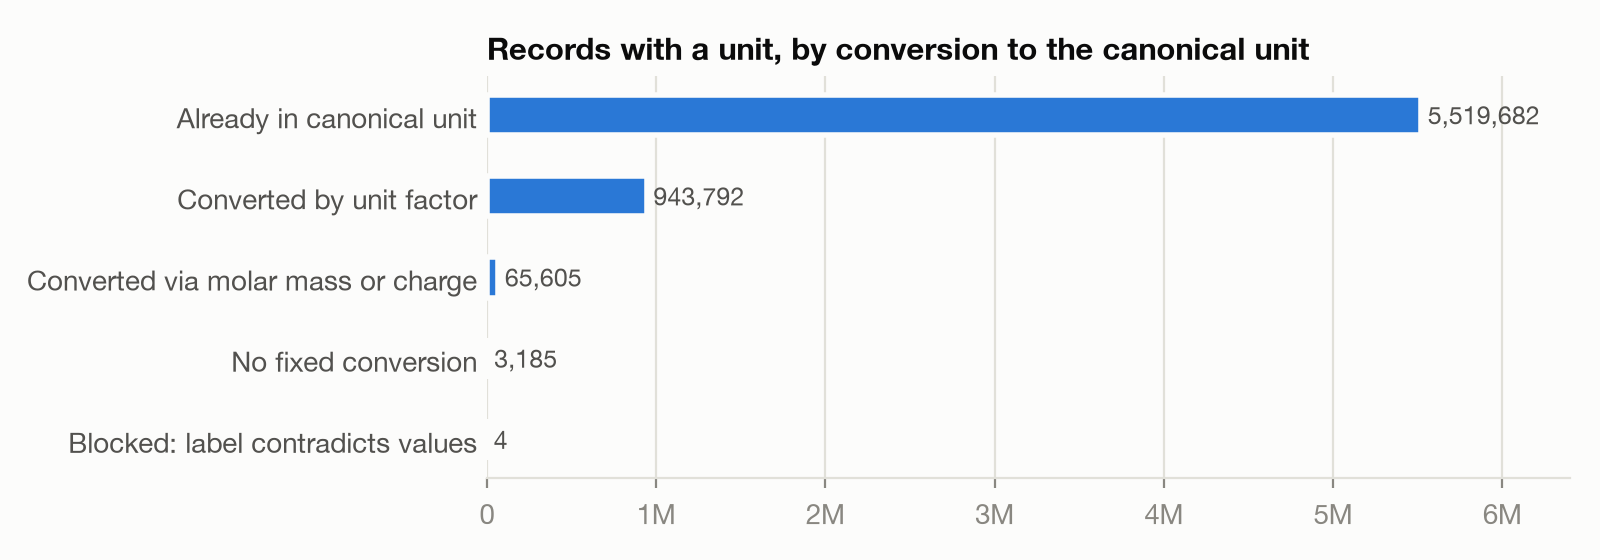
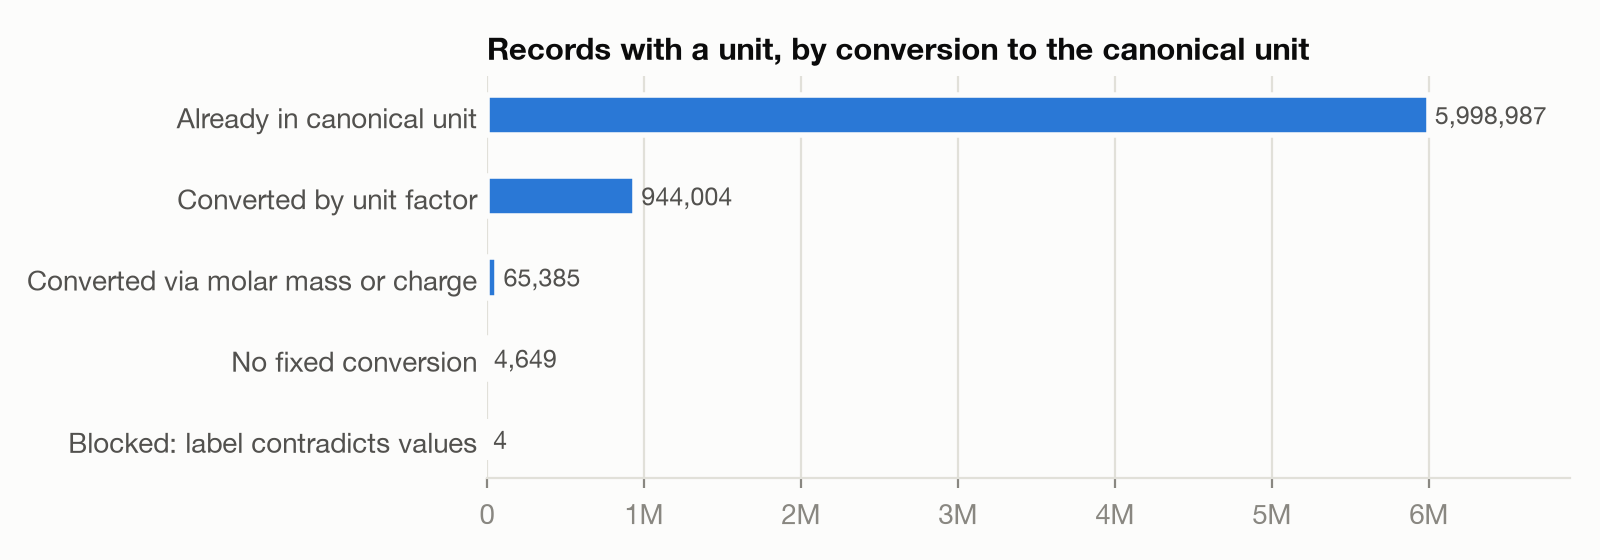
Update counts and charts from the 2026-10-28 run
README, handoff, E's expected counts and both charts now carry the counts
from the run with the concept correction and UCUM dimensionless units
(7,048,467 numeric records). The † markers and "changes" notes are gone.

Claude-Session: https://claude.ai/code/session_01X4tGYqoYRbtPFBn55DHaqb

diff --git a/measurement-unit-harmonization/charts/make_charts.py b/measurement-unit-harmonization/charts/make_charts.py
@@ -35,9 +35,9 @@ def style(ax):
 def unit_assignment():
     # (label, unit assigned, unitless, no unit); E1 by part
     parts = [
-        ('A  No unit, has a\nreference range', 172_788, 32_956, 94),
-        ('B  Unit text with\nno unit concept', 49_089, 77, 6_263),
-        ('C  No unit, no\nreference range', 585_519, 476_218, 4_680),
+        ('A  No unit, has a\nreference range', 195_464, 9_660, 88),
+        ('B  Unit text with\nno unit concept', 49_035, 1, 6_231),
+        ('C  No unit, no\nreference range', 1_046_793, 14_784, 4_674),
     ]
     fig, ax = plt.subplots(figsize=(8, 3.2))
     left = [0] * len(parts)
@@ -65,10 +65,10 @@ def unit_assignment():
 def conversion():
     # 19a, records by conversion method
     rows = [
-        ('Already in canonical unit', 5_519_682),
-        ('Converted by unit factor', 943_792),
-        ('Converted via molar mass or charge', 65_605),
-        ('No fixed conversion', 3_185),
+        ('Already in canonical unit', 5_998_987),
+        ('Converted by unit factor', 944_004),
+        ('Converted via molar mass or charge', 65_385),
+        ('No fixed conversion', 4_649),
         ('Blocked: label contradicts values', 4),
     ]
     fig, ax = plt.subplots(figsize=(8, 2.8))
@@ -77,7 +77,7 @@ def conversion():
     for y, (_, n) in enumerate(rows):
         ax.text(n + 40_000, y, f'{n:,}', va='center', color=INK2, fontsize=9)
     ax.invert_yaxis()
-    ax.set_xlim(0, 6_400_000)
+    ax.set_xlim(0, 6_900_000)
     style(ax)
     ax.set_title('Records with a unit, by conversion to the canonical unit',
                  loc='left', fontsize=11, fontweight='bold')

diff --git a/measurement-unit-harmonization/README.md b/measurement-unit-harmonization/README.md
@@ -1,15 +1,15 @@
 # Unit harmonization of AI-READI EHR measurements
 
-There are 7,052,556 numeric measurement records. Three things were done to them:
+There are 7,048,467 numeric measurement records. Three things were done to them:
 
-1. **Missing units recovered.** 1,327,684 records (18.8%) had no unit.
-   1,316,647 of those (99.2%) now have one:
+1. **Missing units recovered.** 1,326,730 records (18.8%) had no unit.
+   1,291,292 of those (97.3%) now have one:
 
-   | What the 1,327,684 records with no unit have now | Records | Share |
+   | What the 1,326,730 records with no unit have now | Records | Share |
    |---|---:|---:|
-   | A unit, inferred from other records of the same test | 807,396 † | 60.8% |
-   | Marked unitless: no UCUM unit exists (specific gravity, counts, Ct values) | 509,251 † | 38.4% |
-   | Still no unit | 11,037 | 0.8% |
+   | A unit, inferred from other records of the same test or from rules | 1,291,292 | 97.3% |
+   | Marked unitless: no UCUM unit exists (specific gravity, counts, Ct values) | 24,445 | 1.8% |
+   | Still no unit | 10,993 | 0.8% |
 
 2. **Values converted to one unit per test.** Every record with a unit,
    whether it came with the record or was inferred, was converted to its
@@ -20,24 +20,17 @@ There are 7,052,556 numeric measurement records. Three things were done to them:
    treated as "Cholesterol.total/Cholesterol in HDL" (3011163). See
    [Records under the wrong concept](#records-under-the-wrong-concept).
 
-† These counts are from the run before the concept correction and before
-ratios, pH, indexes and scores got their UCUM units ({ratio}, pH, {index},
-[score]); they were all "unitless" then. Most of the unitless records move
-to "a unit" in the next run, and the counts here will be updated from it.
-The source table has also changed since (about 4,000 fewer numeric
-records).
-
 The results are in
 `hive_metastore.ehr_union_clean_metrics.measurement_unit_harmonized`, a full
 copy of `ehr_union_clean.measurement` with added columns; the source table is
 unchanged.
 
-| Where all 7,052,556 numeric records ended up | Records | Share |
+| Where all 7,048,467 numeric records ended up | Records | Share |
 |---|---:|---:|
-| In the test's canonical unit | 6,529,079 † | 92.6% |
-| Unitless (specific gravity, counts, Ct values) | 509,251 † | 7.2% |
-| Unit, but no conversion to the canonical unit | 3,189 | 0.05% |
-| No unit | 11,037 | 0.16% |
+| In the test's canonical unit | 7,008,376 | 99.4% |
+| Unitless (specific gravity, counts, Ct values) | 24,445 | 0.35% |
+| Unit, but no conversion to the canonical unit | 4,653 | 0.07% |
+| No unit | 10,993 | 0.16% |
 
 ## How each record's unit was decided
 
@@ -46,27 +39,27 @@ decided. Part is the group a record fell into (below).
 
 | Outcome | `unit_inference_method` | Part | How | Records |
 |---|---|---|---|---:|
-| Unit | copied_from_unit_concept_id | | Arrived with a unit concept; copied into the inferred columns | 5,724,872 |
-| Unit | explicit | C | Rule on the test name (end-tidal CO2 in mm[Hg], tidal volume in mL, pain and other scores in [score], pH) | 510,927 † |
-| Unit | dataset_unit | A | Copied from labeled records of the same test, any partner | 157,843 |
-| Unit | partner_unit, dataset_unit | C | Copied from labeled records of the same test, same partner first; medians must agree within a factor of 2 | 73,887 |
-| Unit | range_match | A | Copied from labeled records of the same test, same partner and same reference range | 14,108 |
-| Unit | explicit | A | Set by hand per test (including pH, INR and ratios in {ratio}) | 482 † |
-| Unit | source_name | A | No test concept; unit from the source test name | 195 † |
-| Unit | partner_unit | A | Copied from labeled records of the same test, same partner | 160 |
-| Unit | mapped_string | B | Unit text mapped by hand to a standard unit ({ratio}, Index and S/CO included) | 49,073 † |
-| Unit | source_name | C | No test concept; unit from the source test name | 365 |
+| Unit | copied_from_unit_concept_id | | Arrived with a unit concept; copied into the inferred columns | 5,721,737 |
+| Unit | explicit | C | Rule on the test name (end-tidal CO2 in mm[Hg], tidal volume in mL, pain and other scores in [score], pH) | 971,623 |
+| Unit | dataset_unit | A | Copied from labeled records of the same test, any partner | 157,290 |
+| Unit | partner_unit, dataset_unit | C | Copied from labeled records of the same test, same partner first; medians must agree within a factor of 2 | 74,361 |
+| Unit | mapped_string | B | Unit text mapped by hand to a standard unit ({ratio}, Index and S/CO included) | 49,019 |
+| Unit | explicit | A | Set by hand per test (including pH, INR and ratios in {ratio}) | 22,917 |
+| Unit | range_match | A | Copied from labeled records of the same test, same partner and same reference range | 14,064 |
+| Unit | source_name | A | No test concept; unit from the source test name | 1,033 |
+| Unit | source_name | C | No test concept; unit from the source test name | 469 |
 | Unit | value_split | C | Test holds two units; each record's unit set by its value (body temperature under 45 is °C, over 80 is °F) | 340 |
+| Unit | partner_unit | A | Copied from labeled records of the same test, same partner | 160 |
 | Unit | reused_mapping | B | Same unit text already maps to a unit elsewhere in the table | 16 |
-| Unitless | unitless | C | Rule on the test name (counts, Ct values, RAST class) | 469,736 † |
-| Unitless | unitless | A | Specific gravity | 32,956 † |
-| Unitless | unitless | B | Unit text ACTIVITY COEFF | 77 † |
-| No unit | unmapped_string | B | Unit text left unmapped on purpose (log viral loads, per-ejaculate counts) | 5,988 |
-| No unit | not_a_quantity | C | Codes and IDs stored as numbers (EKG impression codes, HLA alleles, case numbers) | 3,794 |
-| No unit | needs_review | C | No rule yet | 661 |
+| Unitless | unitless | C | Rule on the test name (counts, Ct values, RAST class) | 14,784 |
+| Unitless | unitless | A | Specific gravity | 9,660 |
+| Unitless | unitless | B | Unit text ACTIVITY COEFF | 1 |
+| No unit | unmapped_string | B | Unit text left unmapped on purpose (log viral loads, per-ejaculate counts) | 5,956 |
+| No unit | not_a_quantity | C | Codes and IDs stored as numbers (EKG impression codes, HLA alleles, case numbers) | 3,790 |
+| No unit | needs_review | C | No rule yet | 659 |
 | No unit | not_a_unit | B | Junk in the unit field ("Possible", "PharmD") | 275 |
 | No unit | suspect_concept | C | Values don't fit the test (total lung capacity stored under RV/TLC) | 225 |
-| No unit | suspect_concept | A | Values don't fit the test; likely a concept-mapping error | 88 † |
+| No unit | suspect_concept | A | Values don't fit the test; likely a concept-mapping error | 82 |
 | No unit | needs_review | A | Undetermined | 4 |
 | No unit | no_concept | A | No test concept and no source-name rule | 2 |
 
@@ -77,16 +70,16 @@ have UCUM units (`{ratio}`, `pH`, `{index}`, `[score]`, `{fraction}`,
 
 Records with no unit concept fell into three groups, handled in order:
 
-- **A. No unit, but a reference range** (205,838). Mostly copied from labeled
+- **A. No unit, but a reference range** (205,212). Mostly copied from labeled
   records of the same test, accepted only if the medians agree within a factor
   of 2 (which keeps 98 °F from being called Celsius); an exact reference-range
   match is trusted as is.
-- **B. Unit text with no unit concept** (55,429). 223 distinct strings: 146
+- **B. Unit text with no unit concept** (55,267). 223 distinct strings: 146
   map to standard units (nine spellings of the eGFR unit alone; {ratio},
   Index and S/CO among them), 1 is unitless, 18 are junk ("Possible",
   "PharmD"), and 58 are left unmapped on purpose (log viral loads,
   per-ejaculate counts).
-- **C. No unit, no reference range** (1,066,417), almost all flowsheet and
+- **C. No unit, no reference range** (1,066,251), almost all flowsheet and
   exam data from one partner. About 100 tests cover 97% of it, mostly with no
   labeled records to copy from, so units come from rules on the test name
   (end-tidal CO2 in mm[Hg], tidal volume in mL, pain scores in [score]).
@@ -137,16 +130,16 @@ siemens, CEA in "mg/dL" that is ng/mL).
 
 ## Not resolved
 
-- **11,037 records with no unit**: Part B strings left unmapped (5,988), codes
-  and identifiers stored as numbers (3,794), small tests with no rule yet
-  (667), the flagged records below (313 †), and junk unit text (275).
-- **3,189 records with a unit that can't convert**: arbitrary antibody units,
-  log viral loads, tests holding two different quantities.
-- **Values that don't fit their test**, flagged and not converted (313 †
-  records; 307 once the 6 total/HDL records leave them): for example
-  "total T4" that is free T4, and total lung capacity
-  stored under the RV/TLC ratio. Also noted but left as recorded: PT values in
-  seconds under the INR concept, RBC counts under reticulocytes.
+- **10,993 records with no unit**: Part B strings left unmapped (5,956), codes
+  and identifiers stored as numbers (3,790), small tests with no rule yet
+  (665), the flagged records below (307), and junk unit text (275).
+- **4,653 records with a unit that can't convert**: arbitrary antibody units,
+  log viral loads, tests holding two different quantities (1,440 PT values
+  in seconds under the INR concept, whose canonical unit is {ratio}).
+- **Values that don't fit their test**, flagged and not converted (307
+  records): for example "total T4" that is free T4, and total lung capacity
+  stored under the RV/TLC ratio. Also noted but left as recorded: RBC counts
+  under reticulocytes.
 
 ## Notebooks
 

diff --git a/measurement-unit-harmonization/unit_inference_handoff.md b/measurement-unit-harmonization/unit_inference_handoff.md
@@ -100,7 +100,7 @@ an index. (A code with no factor row would also work: it's its own class
 and converts to itself.)
 
 **Part A.** Numeric records with no unit string and no unit concept, but with a
-reference range: 205,838 records.
+reference range: 205,212 records.
 
 | Method | Meaning |
 |---|---|
@@ -108,12 +108,11 @@ reference range: 205,838 records.
 | explicit | unit set by hand per concept (unit_concept_rules), including pH, INR, ratios, indexes |
 | source_name | concept 0; unit decided from measurement_source_value |
 | unitless | specific gravity |
-| suspect_concept | values don't fit the concept (likely concept-mapping error); 82 records expected (88 before the correction) |
+| suspect_concept | values don't fit the concept (likely concept-mapping error); 82 records |
 | needs_review / no_concept | undetermined; 6 records |
 
-Result in the run before the correction and the UCUM units: 172,788 got a
-unit, 32,956 unitless, 94 flagged. Most of the unitless move to explicit or
-source_name in the next run.
+Result (last run): 195,464 got a unit, 9,660 unitless (specific
+gravity), 88 without a unit (82 suspect_concept, 6 undetermined).
 
 **Part B.** Numeric records with a unit string but no unit concept: about 55,000
 records, 223 strings.
@@ -126,12 +125,12 @@ records, 223 strings.
 | not_a_unit | junk in the unit field ("Possible", "**Please", "PharmD", "Urine") |
 | unmapped_string | left on purpose (58 strings: log viral loads, FLU, CU, per-ejaculate counts) |
 
-Result (run before the UCUM units): 55,429 records; 49,089 got a unit
-(mapped_string, reused_mapping), 77 unitless, 6,263 without a unit (5,988
-unmapped_string, 275 not_a_unit). Most of the 77 become mapped_string.
+Result (last run): 55,267 records; 49,035 got a unit (mapped_string,
+reused_mapping), 1 unitless, 6,231 without a unit (5,956 unmapped_string,
+275 not_a_unit).
 
 **Part C.** Numeric records with no unit string, no unit concept and no
-reference range: 1,066,417 records, almost all from one partner, mostly
+reference range: 1,066,251 records, almost all from one partner, mostly
 flowsheet and exam data. About 100 tests cover 97% of them, and most of those
 tests have no labeled records to copy a unit from, so name rules
 (`unit_no_range_rules`, regexes on the test name) do most of the work.
@@ -160,12 +159,10 @@ use other numbers.
 Unitless records no longer count as evidence (cell 13a): what's still
 unitless gets it from a rule.
 
-Result in the run before the correction and the UCUM units: 510,927
-explicit, 476,218 unitless (6,482 of them the HDL/total records, then
-inverted), 73,887 copied, 365 source_name, 3,794 not_a_quantity, 225
-suspect_concept (TLC under RV/TLC), 661 needs_review, 340 value_split. In
-the next run most unitless become explicit, and the HDL/total records are
-explicit {ratio} under 3011163.
+Result (last run): 971,623 explicit (6,457 of them the HDL/total records,
+{ratio} under 3011163), 14,784 unitless, 74,361 copied, 469 source_name,
+3,790 not_a_quantity, 225 suspect_concept (TLC under RV/TLC), 659
+needs_review, 340 value_split.
 
 **Part D.** Conversion to a canonical unit per test. A test is the measurement
 concept, or the measurement_source_value for concept 0.
@@ -215,28 +212,21 @@ harmonized value) on the records it writes, so a rerun of any part needs a Part 
 touches only records with a unit, so without that clearing a record whose
 unit was taken away keeps a stale canonical unit (E2 checks for this).
 
-Numeric records after Parts A-D (cell 20a, last run, before the concept
-correction and the UCUM units): 6,525,084 in canonical unit, 509,196
-unitless, 3,188 with a unit but no conversion, 10,999 with no unit. Most
-unitless records move to "in canonical unit" in the next run.
+Numeric records after Parts A-D (cell 20a, last run): 7,008,376 in
+canonical unit, 24,445 unitless, 4,653 with a unit but no conversion,
+10,993 with no unit.
 
 ## Next step
 
-The last full run (Siggie's E_review_outputs.ipynb, before the concept
-correction and the UCUM units) included the setup cells, the clearing of
-Part D's columns, partner-scoped relabels, 19f and E3: every check was
-empty and every review matched its comment. Its counts are about 4,000
-numeric records lower than the README's (7,048,467 vs 7,052,556), probably
-because the source table changed.
-
-Next: reimport A-E, then run A-D in full and E. E's comments
-say which counts change and in which direction. Then update the README
-counts (the ones marked †), the counts in this file, and the charts
-([charts/make_charts.py](charts/make_charts.py) has the counts typed in).
+The last full run (Siggie's E_review_outputs.ipynb, 2026-10-28, with the
+concept correction and the UCUM units) had every check empty and every
+review matching its comment. The README, this file and the charts
+([charts/make_charts.py](charts/make_charts.py) has the counts typed in)
+carry its counts. After a rerun, update all three from E.
 
 ## Not done
 
-1. **Part C leftovers** still needs_review (661 records): log viral
+1. **Part C leftovers** still needs_review (659 records): log viral
    loads (left unmapped, as in Part B), Treadmill MPH (28; OMOP UCUM has no
    mile per hour), and tests with no rule yet: Creatinine/Protein [Mass
    Ratio] in Urine (94, median 235, looks like protein/creatinine mg/g),
@@ -248,10 +238,10 @@ counts (the ones marked †), the counts in this file, and the charts
      ratios, "total T4" that is free T4, an
      "A1AT phenotype" holding an IgA value
    - Beta-2 glycoprotein IgM (4 records)
-   - INR concept: about 1,440 records in seconds with median 12, so PT values
-     stored under INR. Now that INR's Part A records are {ratio}, its
-     canonical unit should become {ratio} and these show in 19d as
-     no_conversion.
+   - INR concept: 1,440 records in seconds with median 12, so PT values
+     stored under INR. INR's canonical unit is {ratio}, so they show in 19d
+     as no_conversion: `s` and `S` rows, 720 each with the same median,
+     which look like duplicates.
    - Reticulocytes [#/volume] by automated count: 312 records in 10\*6/mm3
      with median 4.25, so RBC counts, not reticulocytes (about 0.06)
    - Expiratory minute volume: `L` and `l` rows, 869 each with the same
@@ -260,8 +250,7 @@ counts (the ones marked †), the counts in this file, and the charts
 3. **Write-up for the boss**: drafted as
    [README.md](README.md), charts from
    [charts/make_charts.py](charts/make_charts.py) (counts copied from the E
-   run; to be regenerated after the next run, since most "Unitless" records
-   become "Unit assigned"). The scope section ("Why every test", now in
+   run). The scope section ("Why every test", now in
    exploration_queries.md) rests on this evidence about the original
    diabetes test list ([exploration_queries.md](exploration_queries.md),
    "Target variables"), which nobody has a record of; it's reconstructed from
